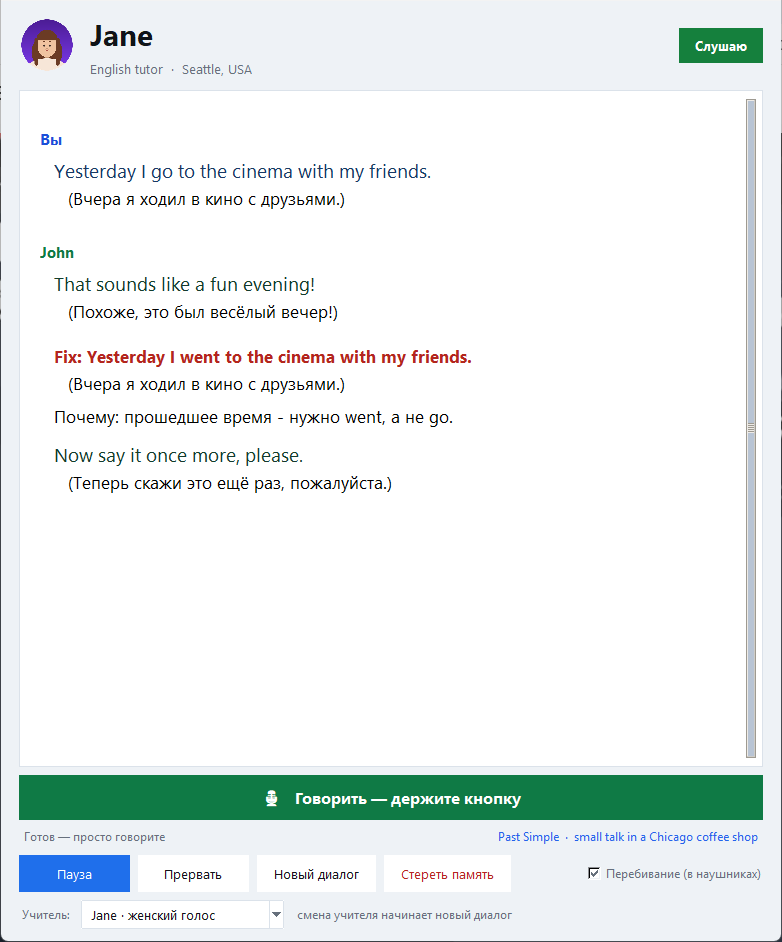
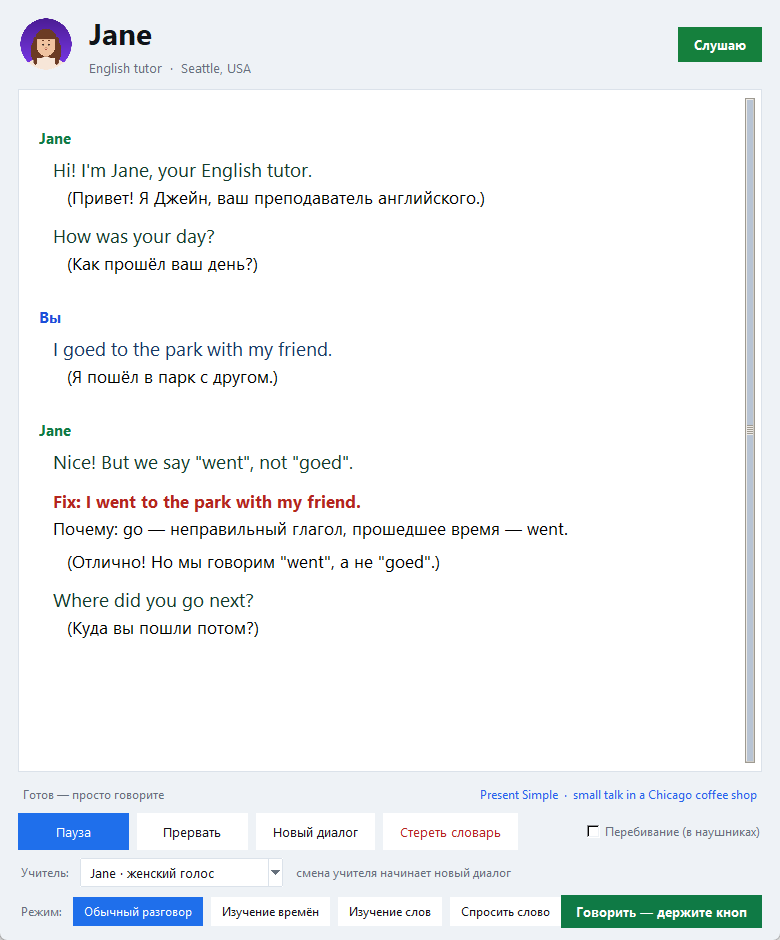
Refresh UI preview screenshot
Regenerate ui_preview.png from the current interface (Jane persona,
chat mode, demo conversation with a correction) and add make_preview.py,
the harness that renders the window with a seeded dialogue and captures
it without starting audio, Whisper or Ollama.

diff --git a/make_preview.py b/make_preview.py
@@ -1,0 +1,75 @@
+"""Временный харнесс: поднимает окно приложения с демо-диалогом и снимает ui_preview.png.
+
+Запускается Windows-питоном (там есть tkinter и все зависимости).
+Аудио/Whisper/Ollama не поднимаются: App.setup подменён заглушкой.
+"""
+import os
+import sys
+import time
+
+HERE = os.path.dirname(os.path.abspath(__file__))
+sys.path.insert(0, HERE)
+
+import english_tutor_memory as et
+
+et.enable_hi_dpi()
+et.App.setup = lambda self: None          # без микрофона, Whisper и Ollama
+
+root = et.tk.Tk()
+try:
+    root.iconbitmap(os.path.join(HERE, "english_tutor.ico"))
+except Exception:
+    pass
+app = et.App(root)
+
+
+def seed():
+    s = app.say_text
+    s("Jane\n", "name_jn")
+    s("Hi! I'm Jane, your English tutor.\n", "en_jn")
+    s("(Привет! Я Джейн, ваш преподаватель английского.)\n", "ru")
+    s("How was your day?\n", "en_jn")
+    s("(Как прошёл ваш день?)\n", "ru")
+
+    s("Вы\n", "name_me")
+    s("I goed to the park with my friend.\n", "en_me")
+    s("(Я пошёл в парк с другом.)\n", "ru")
+
+    s("Jane\n", "name_jn")
+    s("Nice! But we say \"went\", not \"goed\".\n", "en_jn")
+    s("Fix: I went to the park with my friend.\n", "fix")
+    s("Почему: go — неправильный глагол, прошедшее время — went.\n", "note")
+    s("(Отлично! Но мы говорим \"went\", а не \"goed\".)\n", "ru")
+    s("Where did you go next?\n", "en_jn")
+    s("(Куда вы пошли потом?)\n", "ru")
+
+    app.ui.put(("status", "Готов — просто говорите"))
+    app.ui.put(("focus", et.focus_label(0)))
+    app.set_state("listening")
+    for b in app.mode_btns:
+        b.config(state="normal")
+    app.chat_btn.config(style="ChatOn.TButton")
+
+
+def capture():
+    root.update_idletasks()
+    root.update()
+    root.lift()
+    root.attributes("-topmost", True)
+    root.update()
+    time.sleep(0.8)
+    root.update()
+
+    x, y = root.winfo_rootx(), root.winfo_rooty()
+    w, h = root.winfo_width(), root.winfo_height()
+    from PIL import ImageGrab
+    img = ImageGrab.grab(bbox=(x, y, x + w, y + h), all_screens=True)
+    out = os.path.join(HERE, "ui_preview.png")
+    img.save(out)
+    print("saved", out, img.size)
+    root.destroy()
+
+
+root.after(400, seed)
+root.after(1800, capture)
+root.mainloop()

diff --git a/README.md b/README.md
@@ -313,6 +313,7 @@ ui_preview.png            скриншот интерфейса
 avatar_john.png           портрет учителя (можно заменить своим)
 avatar_jane.png           портрет учительницы (можно заменить своим)
 make_avatars.py           скрипт, которым нарисованы аватары
+make_preview.py           пересъёмка ui_preview.png (демо-диалог без микрофона)
 piper_voices/             голоса Piper (по ~120 МБ на голос)
 tutor_memory/
   vocabulary.json         словарь новых слов
